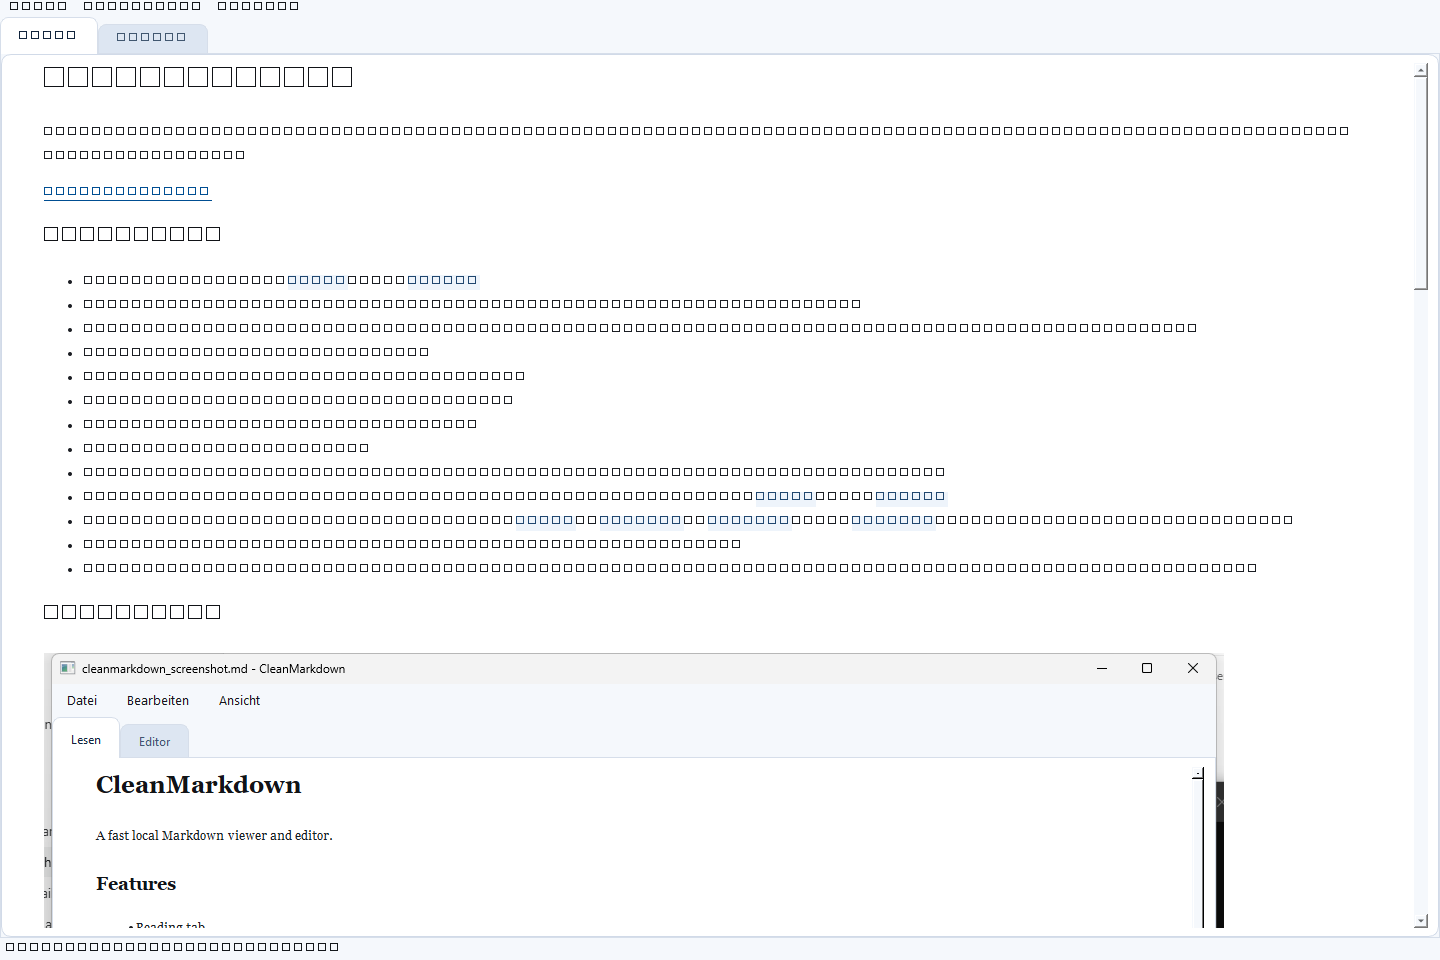
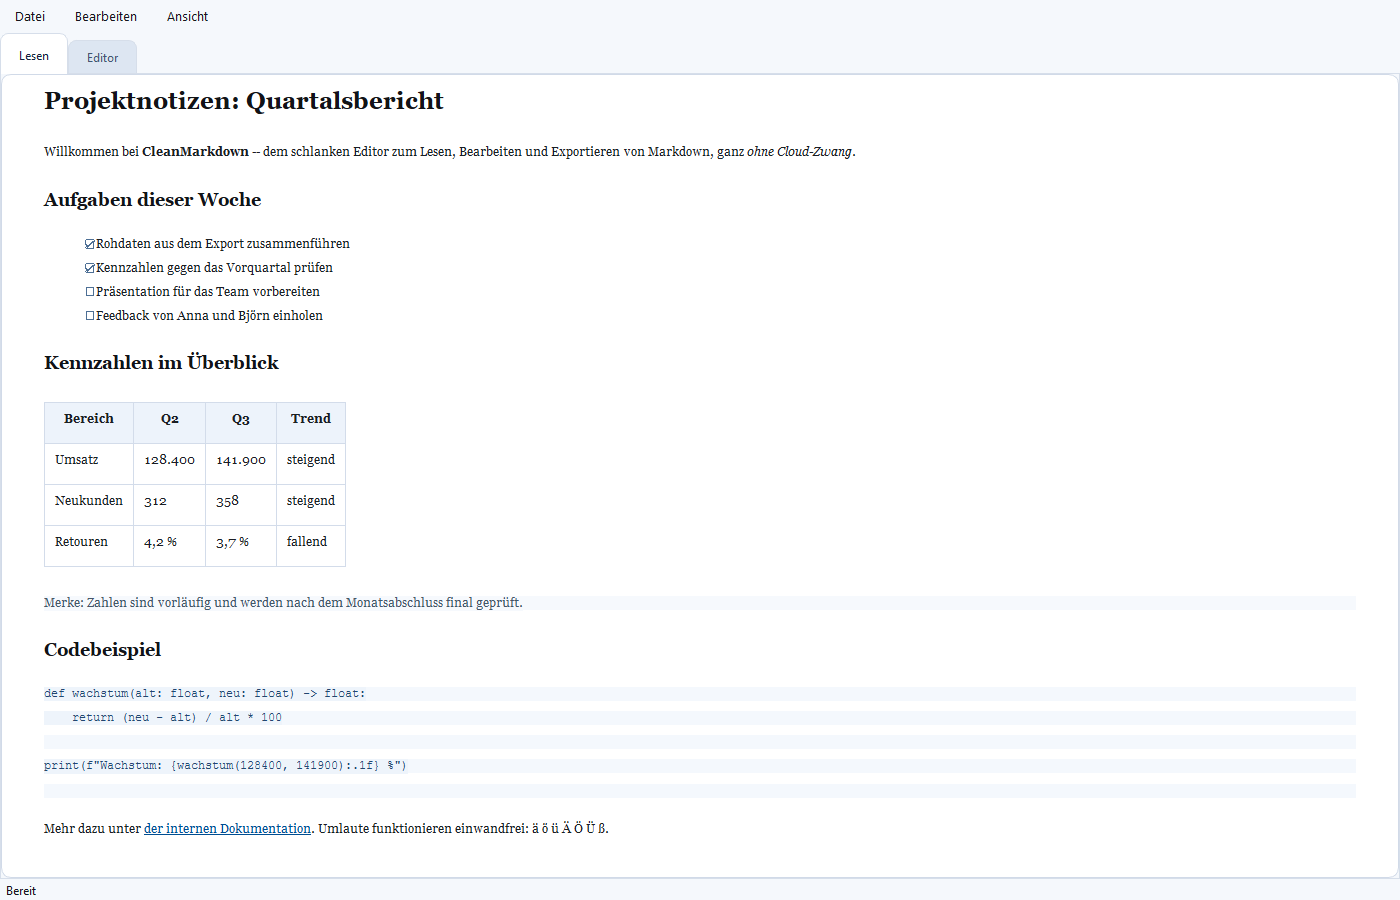
fix: store screenshot generator font/tofu bug (Welle-1 U3)
Store-Screenshots S3.2-S3.4 (editor-dark, reading-bright, reading-dark)
zeigten Tofu (Kaestchen statt Text). Neuer generate_store_screenshots.py
erzeugt sie aus der echten MainWindow mit lesbarem, gerendertem Text.

Root-Cause: QT_QPA_PLATFORM=offscreen + window.grab() rendert unter Windows
keine echten Glyphen -- jede wird als .notdef-Kaestchen gerastert. Fix:
native Qt-Plattform + Qt.WA_DontShowOnScreen (Fenster bleibt unsichtbar,
echte Font-Engine rendert). Guard _assert_font_rendering() erkennt Tofu vor
dem Capture (rendert A/B/g/8/M einzeln -> bei Tofu identisch) und bricht mit
klarem Fehler ab statt still ein defektes Set zu speichern. APPDATA-Isolation
macht den Lauf reproduzierbar (keine kontaminierte Live-settings.json).

5 Regressionstests in tests/test_store_materials.py (Tofu-Erkennung, Guard,
statische Absicherung gegen offscreen-Rueckfall, Screenshot-Praesenz).

Claude-Session: https://claude.ai/code/session_014PYYrAKkuxD8Z4CkEP17nn

Changed region(s): [[0.0, 0.0, 0.9214, 0.9956], [0.9829, 0.0622, 1.0, 0.3111], [0.8293, 0.7778, 0.86, 0.9644]]

diff --git a/generate_store_screenshots.py b/generate_store_screenshots.py
@@ -1,0 +1,212 @@
+"""Store-Screenshot-Generator fuer CleanMarkdown.
+
+Erzeugt die Windows-Store-Screenshots aus der echten MainWindow, mit
+gerendertem, lesbarem Text (KEIN Tofu).
+
+WICHTIG (Root-Cause des Tofu-Bugs): Unter QT_QPA_PLATFORM=offscreen rendert
+Qt auf Windows KEINE echten Glyphen -- jede Glyphe wird als .notdef-Kaestchen
+(Tofu) gerastert. window.grab() liefert dann ein Bild voller Kaestchen.
+Fix: native Plattform verwenden und das Fenster mit Qt.WA_DontShowOnScreen
+unsichtbar halten. Dann laedt Qt die echte Font-Engine und grab() liefert
+echten Text -- ohne dass ein Fenster sichtbar auf dem Bildschirm erscheint.
+
+Zusaetzlich prueft _assert_font_rendering() VOR dem Capture, dass echte
+Glyphen gerendert werden, und bricht mit klarem Fehler ab, statt still Tofu
+zu speichern.
+
+Aufruf:
+    PYTHONIOENCODING=utf-8 python generate_store_screenshots.py [--out DIR]
+"""
+from __future__ import annotations
+
+import argparse
+import os
+import sys
+from pathlib import Path
+
+PROJECT_ROOT = Path(__file__).resolve().parent
+if str(PROJECT_ROOT) not in sys.path:
+    sys.path.insert(0, str(PROJECT_ROOT))
+
+from PySide6.QtCore import Qt, QSize
+from PySide6.QtGui import QPixmap, QPainter, QFont
+from PySide6.QtWidgets import QApplication
+
+from main import MainWindow  # noqa: E402
+
+
+def _force_native_platform() -> None:
+    """Entfernt eine erzwungene offscreen-Plattform VOR der QApplication-Erzeugung.
+
+    Bewusst NICHT auf Modulebene, damit der blosse Import (z. B. in der
+    pytest-Suite, die conftest-seitig offscreen setzt) die Umgebung nicht
+    veraendert. Nur der echte Generierungslauf erzwingt die native Plattform.
+    """
+    if os.environ.get("QT_QPA_PLATFORM") == "offscreen":
+        del os.environ["QT_QPA_PLATFORM"]
+
+
+def _isolate_appdata() -> None:
+    """Leitet %APPDATA% auf ein frisches Temp-Verzeichnis um.
+
+    Damit laedt SettingsStore deterministische Default-Settings, statt die reale
+    Nutzer-``settings.json`` -- die von parallelen Test-/App-Laeufen mit kaputten
+    Werten (z. B. ungueltiger output_dir) kontaminiert sein kann und dann einen
+    blockierenden Modal-Dialog ausloest. Der Generator soll reproduzierbar und
+    unabhaengig von der Live-Konfiguration rendern.
+    """
+    import tempfile
+
+    isolated = Path(tempfile.mkdtemp(prefix="cleanmarkdown-store-")) / "appdata"
+    isolated.mkdir(parents=True, exist_ok=True)
+    os.environ["APPDATA"] = str(isolated)
+
+
+SAMPLE_MARKDOWN = """\
+# Projektnotizen: Quartalsbericht
+
+Willkommen bei **CleanMarkdown** -- dem schlanken Editor zum Lesen,
+Bearbeiten und Exportieren von Markdown, ganz *ohne Cloud-Zwang*.
+
+## Aufgaben dieser Woche
+
+- [x] Rohdaten aus dem Export zusammenführen
+- [x] Kennzahlen gegen das Vorquartal prüfen
+- [ ] Präsentation für das Team vorbereiten
+- [ ] Feedback von Anna und Björn einholen
+
+## Kennzahlen im Überblick
+
+| Bereich      | Q2      | Q3      | Trend |
+|--------------|---------|---------|-------|
+| Umsatz       | 128.400 | 141.900 | steigend |
+| Neukunden    | 312     | 358     | steigend |
+| Retouren     | 4,2 %   | 3,7 %   | fallend  |
+
+> Merke: Zahlen sind vorläufig und werden nach dem Monatsabschluss final geprüft.
+
+## Codebeispiel
+
+```python
+def wachstum(alt: float, neu: float) -> float:
+    return (neu - alt) / alt * 100
+
+print(f"Wachstum: {wachstum(128400, 141900):.1f} %")
+```
+
+Mehr dazu unter [der internen Dokumentation](https://example.org/docs).
+Umlaute funktionieren einwandfrei: ä ö ü Ä Ö Ü ß.
+"""
+
+
+def _render_char(ch: str, font: QFont, size: QSize) -> bytes:
+    pm = QPixmap(size)
+    pm.fill(Qt.white)
+    p = QPainter(pm)
+    p.setFont(font)
+    p.drawText(pm.rect(), Qt.AlignCenter, ch)
+    p.end()
+    return bytes(pm.toImage().constBits())
+
+
+def font_rendering_works(app: QApplication) -> bool:
+    """True, wenn die aktuelle Plattform echte Glyphen rendert.
+
+    Rendert mehrere unterschiedliche Zeichen einzeln. Bei echtem Rendering
+    sehen sie verschieden aus; bei Tofu ist jedes das gleiche .notdef-Kaestchen
+    -> alle Renderings identisch.
+    """
+    font = app.font()
+    size = QSize(48, 48)
+    probes = ["A", "B", "g", "8", "M"]
+    renders = [_render_char(ch, font, size) for ch in probes]
+    blank = _render_char(" ", font, size)
+    distinct = len(set(renders))
+    non_blank = sum(1 for r in renders if r != blank)
+    return distinct >= 3 and non_blank >= len(probes) - 1
+
+
+def _assert_font_rendering(app: QApplication) -> None:
+    platform = QApplication.platformName()
+    if platform == "offscreen":
+        raise RuntimeError(
+            "Qt laeuft unter der 'offscreen'-Plattform -- Screenshots wuerden Tofu "
+            "(Kaestchen statt Text) enthalten. QT_QPA_PLATFORM=offscreen nicht setzen; "
+            "der Generator nutzt WA_DontShowOnScreen auf der nativen Plattform."
+        )
+    if not font_rendering_works(app):
+        raise RuntimeError(
+            f"Font-Rendering-Selbsttest fehlgeschlagen (Plattform '{platform}'): "
+            "gerenderte Glyphen sind nicht unterscheidbar (Tofu-Verdacht). "
+            "Abbruch, um kein defektes Screenshot-Set zu erzeugen."
+        )
+
+
+def _make_window(theme: str, tab_index: int) -> MainWindow:
+    win = MainWindow()
+    # Fenster nie sichtbar zeigen, aber echtes Rendering auf nativer Plattform.
+    win.setAttribute(Qt.WA_DontShowOnScreen, True)
+    win.settings.theme = theme
+    win.resize(1400, 900)
+    win.editor.setPlainText(SAMPLE_MARKDOWN)
+    win._render_preview()
+    win._apply_theme()
+    win.tabs.setCurrentIndex(tab_index)
+    win.show()
+    return win
+
+
+def _capture(win: MainWindow, output_path: Path) -> None:
+    app = QApplication.instance()
+    app.processEvents()
+    app.processEvents()
+    pixmap = win.grab()
+    if pixmap.isNull():
+        raise RuntimeError(f"Screenshot ist null: {output_path}")
+    output_path.parent.mkdir(parents=True, exist_ok=True)
+    if not pixmap.save(str(output_path), "PNG"):
+        raise RuntimeError(f"Screenshot konnte nicht gespeichert werden: {output_path}")
+
+
+# (Dateiname, Theme, Tab-Index)  Tab 0 = Reading/Viewer, 1 = Editor
+SHOTS = [
+    ("editor-dark.png", "dark", 1),
+    ("reading-bright.png", "bright", 0),
+    ("reading-dark.png", "dark", 0),
+]
+
+
+def render_store_screenshots(output_dir: Path) -> list[Path]:
+    _force_native_platform()
+    _isolate_appdata()
+    app = QApplication.instance() or QApplication(sys.argv)
+    _assert_font_rendering(app)
+    written: list[Path] = []
+    for filename, theme, tab_index in SHOTS:
+        win = _make_window(theme, tab_index)
+        target = output_dir / filename
+        _capture(win, target)
+        win.close()
+        app.processEvents()
+        written.append(target)
+    return written
+
+
+def main() -> int:
+    parser = argparse.ArgumentParser(description="Store-Screenshots fuer CleanMarkdown")
+    parser.add_argument(
+        "--out",
+        default=str(PROJECT_ROOT / "README" / "screenshots" / "store"),
+        help="Zielordner (Standard: README/screenshots/store)",
+    )
+    args = parser.parse_args()
+    out = Path(args.out)
+    written = render_store_screenshots(out)
+    print(f"{len(written)} Store-Screenshots erzeugt in {out}:")
+    for path in written:
+        print(f"  - {path.name}")
+    return 0
+
+
+if __name__ == "__main__":
+    raise SystemExit(main())

diff --git a/tests/test_store_materials.py b/tests/test_store_materials.py
@@ -49,3 +49,69 @@ def test_windows_store_prep_exists():
 def test_screenshot_store_dir_exists():
     path = PROJECT_ROOT / "README" / "screenshots" / "store"
     assert path.is_dir(), "README/screenshots/store/ fehlt"
+
+
+# --- Store-Screenshot-Tofu-Regression (Welle-1-U3) --------------------------
+# Hintergrund: Unter QT_QPA_PLATFORM=offscreen rendert Qt auf Windows keine
+# echten Glyphen; window.grab() liefert dann Tofu (.notdef-Kaestchen statt
+# Text). conftest.py erzwingt offscreen fuer die gesamte Suite -- daher pruefen
+# diese Tests, dass der Generator diesen Zustand ERKENNT und mit klarem Fehler
+# abbricht, statt still ein defektes Screenshot-Set zu erzeugen.
+
+import re
+
+import pytest
+
+try:
+    from PySide6.QtWidgets import QApplication
+    _HAS_QT = True
+except Exception:  # pragma: no cover - Qt sollte in der Test-Umgebung vorhanden sein
+    _HAS_QT = False
+
+GENERATOR_PATH = PROJECT_ROOT / "generate_store_screenshots.py"
+
+STORE_SHOTS = ("editor-dark.png", "reading-bright.png", "reading-dark.png")
+
+
+def test_store_screenshot_generator_exists():
+    assert GENERATOR_PATH.exists(), "generate_store_screenshots.py fehlt"
+
+
+def test_store_screenshots_present_and_nonempty():
+    store_dir = PROJECT_ROOT / "README" / "screenshots" / "store"
+    for name in STORE_SHOTS:
+        path = store_dir / name
+        assert path.is_file(), f"Store-Screenshot {name} fehlt"
+        assert path.stat().st_size > 0, f"Store-Screenshot {name} ist leer"
+
+
+def test_generator_source_uses_native_platform_not_offscreen():
+    """Statische Absicherung gegen Rueckfall in den Tofu-Modus."""
+    src = GENERATOR_PATH.read_text(encoding="utf-8")
+    assert "WA_DontShowOnScreen" in src, "Fix (WA_DontShowOnScreen) fehlt im Generator"
+    forces_offscreen = re.search(
+        r"""environ\[["']QT_QPA_PLATFORM["']\]\s*=\s*["']offscreen["']""", src
+    )
+    assert not forces_offscreen, "Generator darf QT_QPA_PLATFORM nicht auf offscreen setzen"
+
+
[email redacted](not _HAS_QT, reason="PySide6 nicht verfuegbar")
+def test_font_probe_flags_tofu_under_offscreen():
+    """Unter offscreen (conftest-Default) muss die Font-Probe Tofu melden."""
+    import generate_store_screenshots as gen
+
+    app = QApplication.instance() or QApplication([])
+    assert QApplication.platformName() == "offscreen", (
+        "Test erwartet die offscreen-Plattform aus conftest.py"
+    )
+    assert gen.font_rendering_works(app) is False
+
+
[email redacted](not _HAS_QT, reason="PySide6 nicht verfuegbar")
+def test_generator_guard_raises_on_tofu():
+    """Abnahmekriterium: Der Generator wirft, statt still Tofu zu speichern."""
+    import generate_store_screenshots as gen
+
+    app = QApplication.instance() or QApplication([])
+    with pytest.raises(RuntimeError):
+        gen._assert_font_rendering(app)